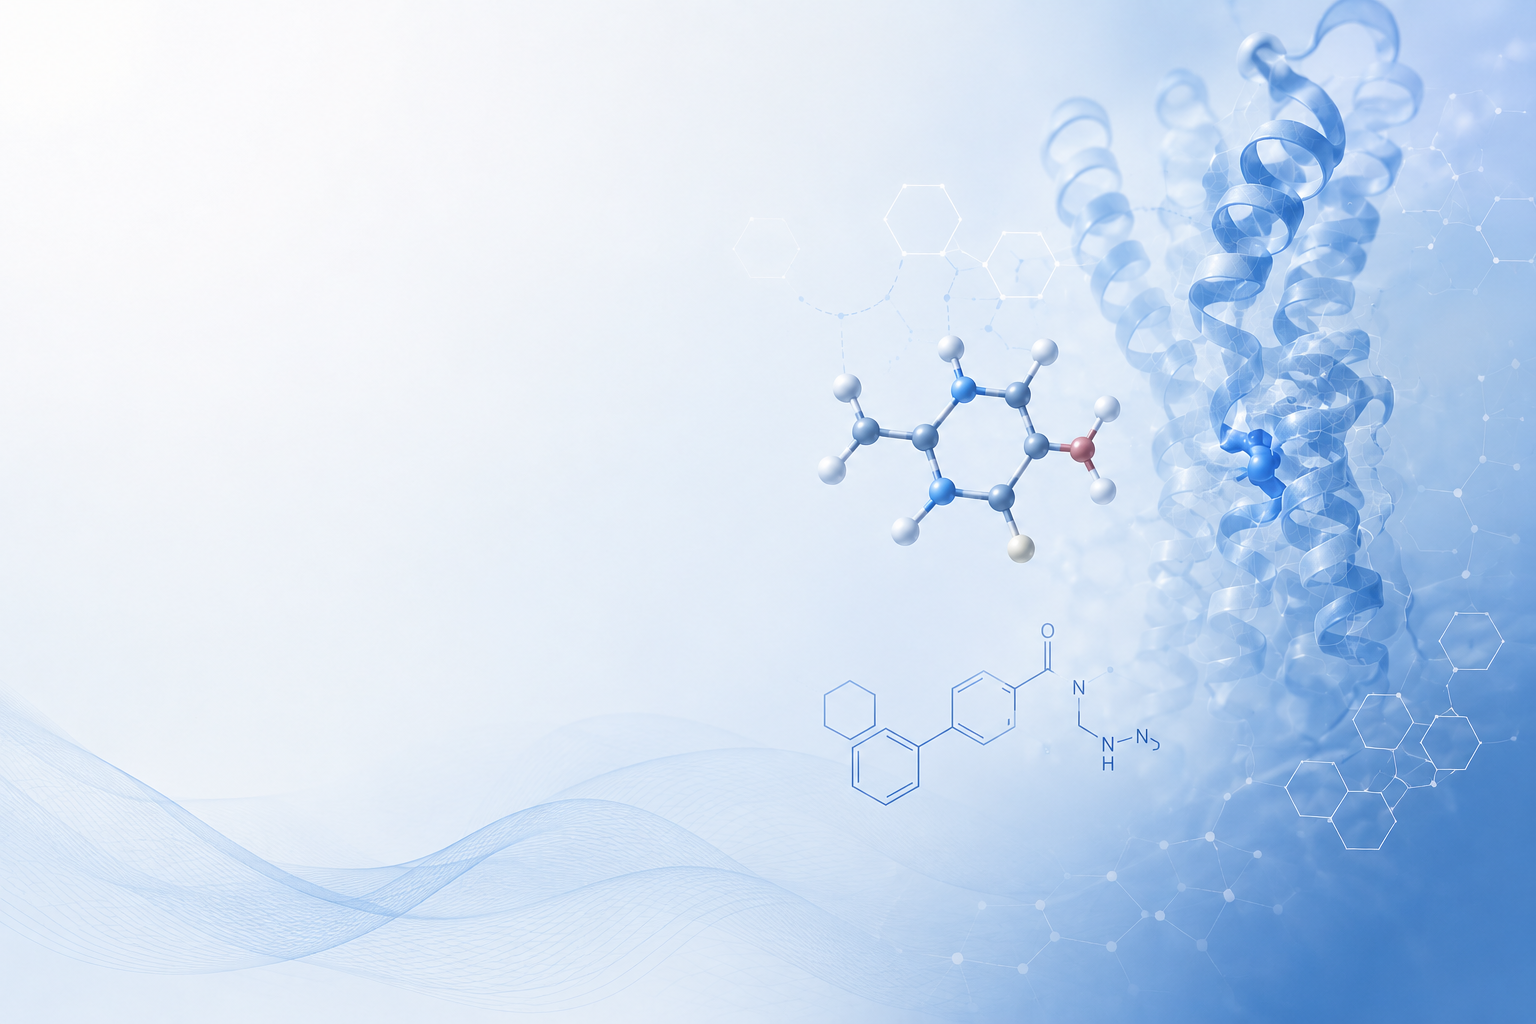
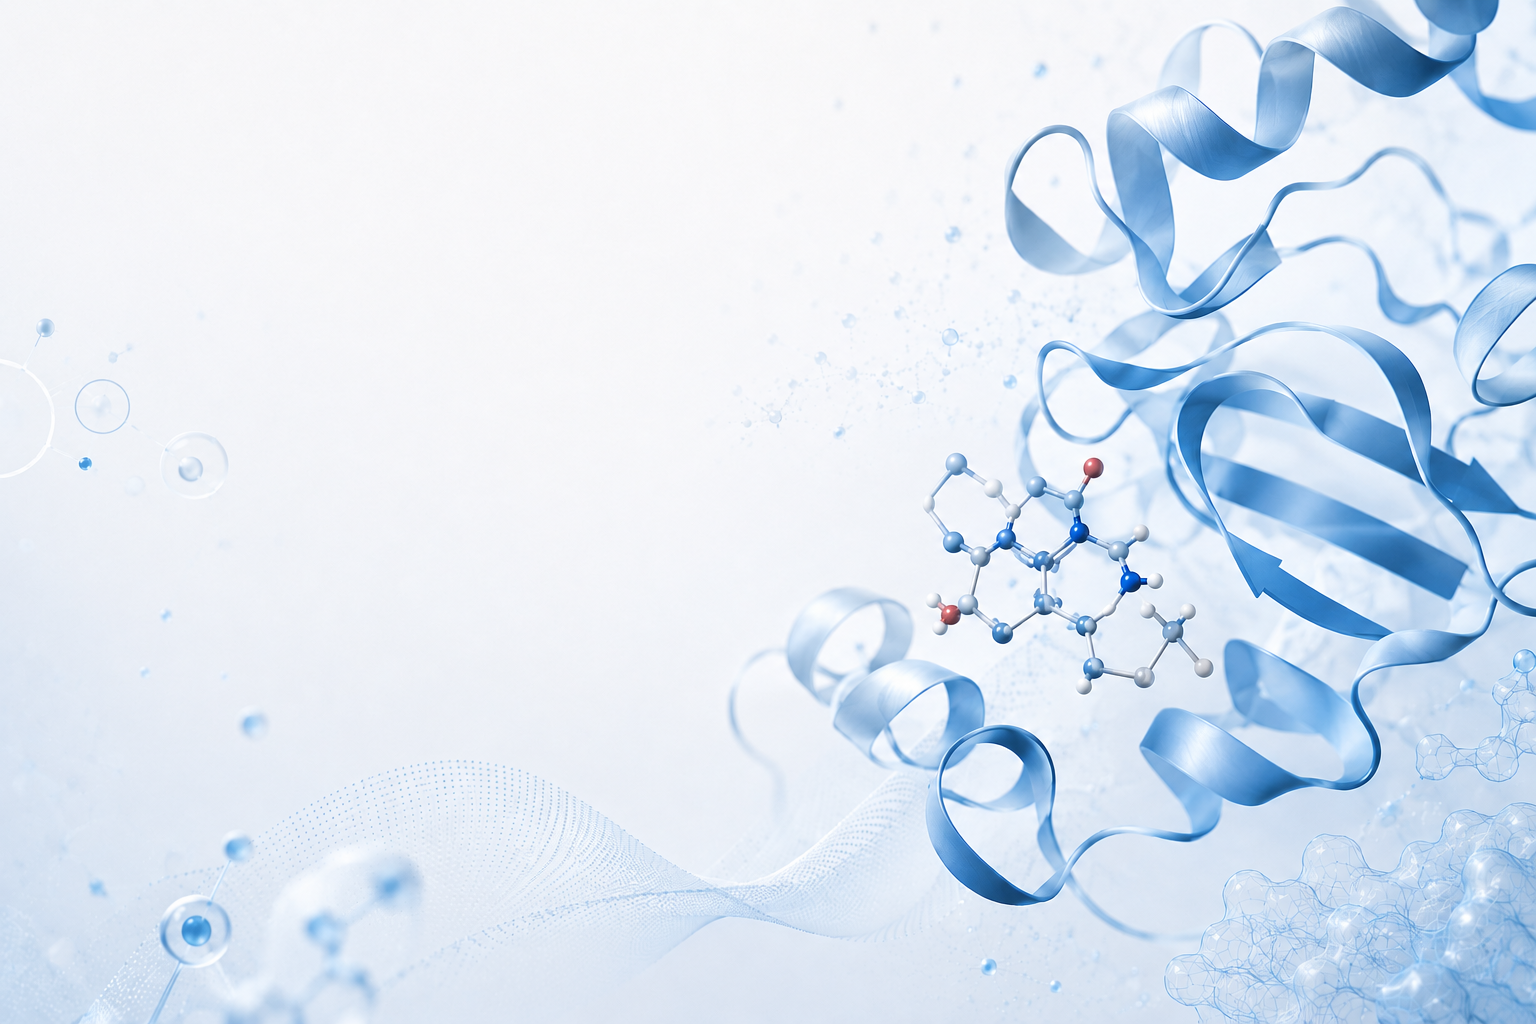
Restore hero about card with updated background

diff --git a/styles.css b/styles.css
@@ -113,34 +113,6 @@ a {
   color: var(--navy);
 }
 
-.section-tabs {
-  display: flex;
-  flex-wrap: wrap;
-  gap: 8px;
-  padding: 0 0 20px;
-}
-
-.tab-button {
-  display: inline-flex;
-  align-items: center;
-  justify-content: center;
-  min-height: 40px;
-  padding: 0 14px;
-  border: 1px solid var(--line);
-  border-radius: 8px;
-  background: var(--surface);
-  color: #3f4a59;
-  font-size: 14px;
-  font-weight: 700;
-}
-
-.tab-button.active,
-.tab-button:hover {
-  border-color: var(--teal);
-  color: var(--navy);
-  box-shadow: 0 4px 14px rgba(23, 50, 77, 0.1);
-}
-
 .header-actions {
   display: inline-flex;
   gap: 4px;
@@ -315,14 +287,19 @@ main {
 }
 
 .hero-about-card {
+  position: absolute;
   left: 3.2%;
   bottom: 3%;
+  z-index: 3;
   display: grid;
   grid-template-columns: 1.8fr repeat(4, 1fr);
   gap: 0;
   align-items: center;
   width: 62%;
   padding: 14px 18px;
+  border-radius: 0;
+  background: rgba(255, 255, 255, 0.72);
+  backdrop-filter: blur(4px);
 }
 
 .about-text {

diff --git a/index.html b/index.html
@@ -99,6 +99,37 @@
           </div>
         </div>
       </div>
+
+      <div class="hero-about-card">
+        <div class="about-text">
+          <h2>About me</h2>
+          <p>
+            I am a medicinal chemist with over 10 years of experience in drug discovery
+            and 4 years of academic research. My work focuses on molecular design,
+            GPCR ligands, and translational drug discovery.
+          </p>
+        </div>
+
+        <div class="about-stat">
+          <h3>Education</h3>
+          <p>Ph.D. in Pharmacy<br />Seoul National University</p>
+        </div>
+
+        <div class="about-stat">
+          <h3>Experience</h3>
+          <p>10+ years in industry<br />4 years in academia</p>
+        </div>
+
+        <div class="about-stat">
+          <h3>Expertise</h3>
+          <p>Medicinal Chemistry<br />Drug Discovery</p>
+        </div>
+
+        <div class="about-stat">
+          <h3>Interests</h3>
+          <p>GPCR · Nucleoside<br />Emerging Modalities</p>
+        </div>
+      </div>
     </section>
   </main>
 

diff --git a/awards.html b/awards.html
@@ -39,15 +39,6 @@
       <p class="eyebrow" data-i18n="awardsKicker">Awards</p>
       <h1 data-i18n="awardsTitle">수상 및 자격</h1>
     </section>
-    <nav class="section-tabs" aria-label="Portfolio page tabs">
-      <a class="tab-button" href="index.html" data-i18n="navAbout">About me</a>
-      <a class="tab-button" href="research.html" data-i18n="navResearch">Research</a>
-      <a class="tab-button" href="projects.html" data-i18n="navProjects">Projects</a>
-      <a class="tab-button" href="publication.html" data-i18n="navPublications">Publication</a>
-      <a class="tab-button active" href="awards.html" data-i18n="navAwards">Awards</a>
-      <a class="tab-button" href="assets/cv.pdf" data-i18n="navCV">CV</a>
-      <a class="tab-button" href="mailto:[email redacted]" data-i18n="navContact">Contact</a>
-    </nav>
     <section class="section">
       <div class="empty-state">
         <p data-i18n="awardsEmpty">수상, 장학금, 자격증, 교육 이수 내역을 추가할 공간입니다.</p>

diff --git a/education.html b/education.html
@@ -39,15 +39,6 @@
       <p class="eyebrow" data-i18n="educationKicker">Education</p>
       <h1 data-i18n="educationTitle">학력</h1>
     </section>
-    <nav class="section-tabs" aria-label="Portfolio page tabs">
-      <a class="tab-button" href="index.html" data-i18n="navAbout">About me</a>
-      <a class="tab-button" href="research.html" data-i18n="navResearch">Research</a>
-      <a class="tab-button" href="projects.html" data-i18n="navProjects">Projects</a>
-      <a class="tab-button" href="publication.html" data-i18n="navPublications">Publication</a>
-      <a class="tab-button" href="awards.html" data-i18n="navAwards">Awards</a>
-      <a class="tab-button" href="assets/cv.pdf" data-i18n="navCV">CV</a>
-      <a class="tab-button" href="mailto:[email redacted]" data-i18n="navContact">Contact</a>
-    </nav>
     <section class="section">
       <ol class="timeline">
         <li>

diff --git a/projects.html b/projects.html
@@ -39,15 +39,6 @@
       <p class="eyebrow" data-i18n="projectsKicker">Projects</p>
       <h1 data-i18n="projectsTitle">대표 연구 프로젝트</h1>
     </section>
-    <nav class="section-tabs" aria-label="Portfolio page tabs">
-      <a class="tab-button" href="index.html" data-i18n="navAbout">About me</a>
-      <a class="tab-button" href="research.html" data-i18n="navResearch">Research</a>
-      <a class="tab-button active" href="projects.html" data-i18n="navProjects">Projects</a>
-      <a class="tab-button" href="publication.html" data-i18n="navPublications">Publication</a>
-      <a class="tab-button" href="awards.html" data-i18n="navAwards">Awards</a>
-      <a class="tab-button" href="assets/cv.pdf" data-i18n="navCV">CV</a>
-      <a class="tab-button" href="mailto:[email redacted]" data-i18n="navContact">Contact</a>
-    </nav>
     <section class="section">
       <div class="card-list">
         <article class="project-card">

diff --git a/publication.html b/publication.html
@@ -39,15 +39,6 @@
       <p class="eyebrow" data-i18n="publicationKicker">Publication</p>
       <h1 data-i18n="publicationTitle">논문 및 발표</h1>
     </section>
-    <nav class="section-tabs" aria-label="Portfolio page tabs">
-      <a class="tab-button" href="index.html" data-i18n="navAbout">About me</a>
-      <a class="tab-button" href="research.html" data-i18n="navResearch">Research</a>
-      <a class="tab-button" href="projects.html" data-i18n="navProjects">Projects</a>
-      <a class="tab-button active" href="publication.html" data-i18n="navPublications">Publication</a>
-      <a class="tab-button" href="awards.html" data-i18n="navAwards">Awards</a>
-      <a class="tab-button" href="assets/cv.pdf" data-i18n="navCV">CV</a>
-      <a class="tab-button" href="mailto:[email redacted]" data-i18n="navContact">Contact</a>
-    </nav>
     <section class="section">
       <div class="empty-state">
         <p data-i18n="publicationEmpty">논문, 학회 발표, 포스터, 특허 정보를 추가할 공간입니다.</p>

diff --git a/research.html b/research.html
@@ -39,15 +39,6 @@
       <p class="eyebrow" data-i18n="skillsKicker">Skills</p>
       <h1 data-i18n="skillsTitle">연구 및 분석 역량</h1>
     </section>
-    <nav class="section-tabs" aria-label="Portfolio page tabs">
-      <a class="tab-button" href="index.html" data-i18n="navAbout">About me</a>
-      <a class="tab-button active" href="research.html" data-i18n="navResearch">Research</a>
-      <a class="tab-button" href="projects.html" data-i18n="navProjects">Projects</a>
-      <a class="tab-button" href="publication.html" data-i18n="navPublications">Publication</a>
-      <a class="tab-button" href="awards.html" data-i18n="navAwards">Awards</a>
-      <a class="tab-button" href="assets/cv.pdf" data-i18n="navCV">CV</a>
-      <a class="tab-button" href="mailto:[email redacted]" data-i18n="navContact">Contact</a>
-    </nav>
     <section class="section">
       <div class="skill-groups">
         <div>

diff --git a/skills.html b/skills.html
@@ -39,15 +39,6 @@
       <p class="eyebrow" data-i18n="skillsKicker">Skills</p>
       <h1 data-i18n="skillsTitle">연구 및 분석 역량</h1>
     </section>
-    <nav class="section-tabs" aria-label="Portfolio page tabs">
-      <a class="tab-button" href="index.html" data-i18n="navAbout">About me</a>
-      <a class="tab-button active" href="research.html" data-i18n="navResearch">Research</a>
-      <a class="tab-button" href="projects.html" data-i18n="navProjects">Projects</a>
-      <a class="tab-button" href="publication.html" data-i18n="navPublications">Publication</a>
-      <a class="tab-button" href="awards.html" data-i18n="navAwards">Awards</a>
-      <a class="tab-button" href="assets/cv.pdf" data-i18n="navCV">CV</a>
-      <a class="tab-button" href="mailto:[email redacted]" data-i18n="navContact">Contact</a>
-    </nav>
     <section class="section">
       <div class="skill-groups">
         <div>